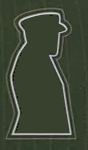
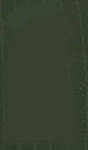
Bug fixes

Changed region(s): [[0.0455, 0.0533, 0.8636, 0.9333]]

diff --git a/client/src/components/GameContext/GameContext.tsx b/client/src/components/GameContext/GameContext.tsx
@@ -292,6 +292,24 @@ function withUnloadAfterCardRemoved(
   )
 }
 
+function handCardBeforeDiscard(state: GameState, playerId: number, cardId: number): Card | undefined {
+  const player = state.players.find(p => p.id === playerId)
+  if (!player) return undefined
+  return player.deck.slice(0, player.handCount).find(c => c.id === cardId)
+}
+
+/** RoI unload when a discard cost removes a card from hand (Holoprojectors, Ixian Probe, etc.). */
+function withUnloadAfterDiscardCost(
+  before: GameState,
+  after: GameState,
+  playerId: number,
+  cardIds: readonly number[]
+): GameState {
+  if (after === before || cardIds.length !== 1) return after
+  const card = handCardBeforeDiscard(before, playerId, cardIds[0])
+  return withUnloadAfterCardRemoved(after, playerId, card, 'discard')
+}
+
 /** Treachery (and similar): auto-deploy all troops from a mandatory recruit+deploy effect. */
 function resolveMandatoryTroopDeploy(state: GameState, playerId: number): GameState {
   if (!state.currTurn?.mandatoryDeployTroops) return state
@@ -1084,6 +1102,45 @@ function withRecruitedTroopsDeployLimit(state: GameState, troopsRecruited: numbe
     ...state,
     currTurn: applyRecruitedTroopsToTurnDeployLimit(state.currTurn, troopsRecruited),
   }
+}
+
+/** Spice/troops/etc. on paid optional effects that also queue an influence choice. */
+function applyNonInfluencePayCostRewards(
+  player: Player,
+  reward: Reward,
+  currTurn: GameTurn,
+  pushGain: (amount: number, type: RewardType) => void
+): { player: Player; currTurn: GameTurn } {
+  let nextPlayer = player
+  let nextTurn = currTurn
+  if (reward.spice) {
+    nextPlayer = { ...nextPlayer, spice: nextPlayer.spice + reward.spice }
+    pushGain(reward.spice, RewardType.SPICE)
+  }
+  if (reward.water) {
+    nextPlayer = { ...nextPlayer, water: nextPlayer.water + reward.water }
+    pushGain(reward.water, RewardType.WATER)
+  }
+  if (reward.solari) {
+    nextPlayer = { ...nextPlayer, solari: nextPlayer.solari + reward.solari }
+    pushGain(reward.solari, RewardType.SOLARI)
+  }
+  if (reward.troops) {
+    const recruited = recruitTroopsToGarrison(nextPlayer, reward.troops)
+    nextPlayer = recruited.player
+    pushGain(recruited.recruited, RewardType.TROOPS)
+    if (nextTurn.canDeployTroops && !isDeployTheseRecruitedTroops(reward)) {
+      nextTurn = {
+        ...nextTurn,
+        troopLimit: (nextTurn.troopLimit || 0) + recruited.recruited,
+      }
+    }
+  }
+  if (reward.intrigueCards) {
+    nextPlayer = { ...nextPlayer, intrigueCount: nextPlayer.intrigueCount + reward.intrigueCards }
+    pushGain(reward.intrigueCards, RewardType.INTRIGUE)
+  }
+  return { player: nextPlayer, currTurn: nextTurn }
 }
 
 function withEffectRetreatAllowance(state: GameState, amount: number): GameState {
@@ -6469,6 +6526,26 @@ function gameReducer(state: GameState, action: GameAction): GameState {
             if (cost.water) { player.water -= cost.water; pushCostGain(cost.water, RewardType.WATER); }
             if (cost.solari) { player.solari -= cost.solari; pushCostGain(cost.solari, RewardType.SOLARI); }
             if (cost.troops) { player.troops -= cost.troops; pushCostGain(cost.troops, RewardType.TROOPS); }
+            const pushRewardGain = (amount: number, type: RewardType) => {
+              if (!amount) return
+              newGains.push({
+                round: state.currentRound,
+                playerId,
+                sourceId: source.id,
+                name: source.name,
+                amount,
+                type,
+                source: source.type,
+              })
+            }
+            const appliedCompanion = applyNonInfluencePayCostRewards(
+              player,
+              reward,
+              tempCurrTurn,
+              pushRewardGain
+            )
+            player = appliedCompanion.player
+            tempCurrTurn = appliedCompanion.currTurn
             influenceChoices.push(
               createGainInfluenceChoice(reward.influence, choiceSource, undefined, collectLiveIds(state, influenceChoices.map(c => c.id)))
             )
@@ -7258,17 +7335,20 @@ function gameReducer(state: GameState, action: GameAction): GameState {
       
       const rewardForApply =
         reward.influence?.chooseOne ? { ...reward, influence: undefined } : reward
-      const newTurn = { ...state.currTurn }
-      newTurn.pendingChoices = (newTurn.pendingChoices || []).filter(c => c.id !== action.choiceId)
-      if (followUpGainChoice) {
-        newTurn.pendingChoices = [...(newTurn.pendingChoices || []), followUpGainChoice]
-      }
       const newState = applyChoiceReward(
         { ...state, players: state.players.map(p => p.id === playerId ? updatedPlayer : p), gains: updatedGains },
         rewardForApply,
         playerId,
         gainAttribution
       )
+      const baseTurn = newState.currTurn ?? state.currTurn
+      const newTurn = {
+        ...baseTurn,
+        pendingChoices: (baseTurn.pendingChoices || []).filter(c => c.id !== action.choiceId),
+      }
+      if (followUpGainChoice) {
+        newTurn.pendingChoices = [...(newTurn.pendingChoices || []), followUpGainChoice]
+      }
       const rewardFollowUps = (newState.currTurn?.pendingChoices ?? []).filter(
         c => c.id !== action.choiceId && !(newTurn.pendingChoices || []).some(tc => tc.id === c.id)
       )
@@ -7659,11 +7739,13 @@ function gameReducer(state: GameState, action: GameAction): GameState {
         }
         case CustomEffect.HOLOPROJECTORS: {
           const cardIds = (data?.cardIds as number[]) ?? []
-          return applyHoloprojectorsDiscard(state, playerId, cardIds)
+          const next = applyHoloprojectorsDiscard(state, playerId, cardIds)
+          return withUnloadAfterDiscardCost(state, next, playerId, cardIds)
         }
         case CustomEffect.INVASION_SHIPS: {
           const cardIds = (data?.cardIds as number[]) ?? []
-          return applyInvasionShipsDiscard(state, playerId, cardIds)
+          const next = applyInvasionShipsDiscard(state, playerId, cardIds)
+          return withUnloadAfterDiscardCost(state, next, playerId, cardIds)
         }
         case CustomEffect.SONIC_SNOOPERS: {
           return applySonicSnoopers(state, playerId, data?.count)
@@ -8589,8 +8671,10 @@ function gameReducer(state: GameState, action: GameAction): GameState {
       return handleAcquireTech(state, action)
     case 'ACTIVATE_TECH':
       return handleActivateTech(state, action)
-    case 'ACTIVATE_TECH_DISCARD':
-      return handleActivateTechDiscard(state, action)
+    case 'ACTIVATE_TECH_DISCARD': {
+      const next = handleActivateTechDiscard(state, action)
+      return withUnloadAfterDiscardCost(state, next, action.playerId, action.cardIds)
+    }
     case 'TECH_NEGOTIATOR':
       return handleTechNegotiator(state, action)
     case 'ADVANCE_RESEARCH':

diff --git a/client/src/components/GameContext/__tests__/boardSpaces.test.ts b/client/src/components/GameContext/__tests__/boardSpaces.test.ts
@@ -7,6 +7,7 @@ import { LEADERS, LEADER_NAMES } from '../../../data/leaders'
 import { applyGameAction } from '../GameContext'
 import {
   AgentIcon,
+  ChoiceType,
   ControlMarkerType,
   FactionType,
   GainSource,
@@ -17,6 +18,7 @@ import { getBaseTestState, stubDeckCard } from './_helpers'
 
 const ARRAKEEN_ID = BOARD_SPACES.find(s => s.name === 'Arrakeen')!.id
 const IMPERIAL_BASIN_ID = BOARD_SPACES.find(s => s.name === 'Imperial Basin')!.id
+const HARDY_WARRIORS_ID = BOARD_SPACES.find(s => s.name === 'Hardy Warriors')!.id
 
 function placeAgentOnSpace(spaceId: number, controllerId = 1) {
   const card = stubDeckCard(5000 + spaceId, { agentIcons: [AgentIcon.CITY] })
@@ -196,6 +198,64 @@ describe('Board spaces — control bonus', () => {
     s = applyGameAction(s, { type: 'DEPLOY_TROOP', playerId: 0 })
     expect(s.currTurn?.removableTroops).toBe(4)
     expect(s.combatTroops[0]).toBe(4)
+  })
+
+  it('Emperor 4th-influence milestone troops from RESOLVE_CHOICE count toward combat deploy limit', () => {
+    const card = stubDeckCard(5400, { agentIcons: [AgentIcon.FREMEN] })
+    let s = getBaseTestState(undefined, { players: 2 })
+    s = {
+      ...s,
+      factionInfluence: {
+        ...s.factionInfluence,
+        [FactionType.EMPEROR]: { 0: 3, 1: 0 },
+      },
+      players: s.players.map((p, i) =>
+        i === 0 ? { ...p, deck: [card], handCount: 1, water: 5 } : p
+      ),
+    }
+    s = applyGameAction(s, { type: 'PLAY_CARD', playerId: 0, cardId: card.id })
+    s = applyGameAction(s, { type: 'PLACE_AGENT', playerId: 0, spaceId: HARDY_WARRIORS_ID })
+    s = applyGameAction(s, { type: 'CLAIM_ALL_REWARDS', playerId: 0 })
+    expect(s.currTurn?.troopLimit).toBe(4)
+
+    const choiceId = 'test-emperor-milestone'
+    s = {
+      ...s,
+      currTurn: {
+        ...s.currTurn!,
+        pendingChoices: [
+          {
+            id: choiceId,
+            type: ChoiceType.FIXED_OPTIONS,
+            prompt: 'Gain Emperor influence',
+            options: [
+              {
+                reward: {
+                  influence: { amounts: [{ faction: FactionType.EMPEROR, amount: 1 }] },
+                },
+              },
+            ],
+            source: { type: GainSource.CARD, id: card.id, name: card.name },
+          },
+        ],
+      },
+    }
+    s = applyGameAction(s, {
+      type: 'RESOLVE_CHOICE',
+      playerId: 0,
+      choiceId,
+      optionIndex: 0,
+    })
+    expect(s.currTurn?.troopLimit).toBe(6)
+
+    s = applyGameAction(s, { type: 'DEPLOY_TROOP', playerId: 0 })
+    s = applyGameAction(s, { type: 'DEPLOY_TROOP', playerId: 0 })
+    s = applyGameAction(s, { type: 'DEPLOY_TROOP', playerId: 0 })
+    s = applyGameAction(s, { type: 'DEPLOY_TROOP', playerId: 0 })
+    s = applyGameAction(s, { type: 'DEPLOY_TROOP', playerId: 0 })
+    s = applyGameAction(s, { type: 'DEPLOY_TROOP', playerId: 0 })
+    expect(s.currTurn?.removableTroops).toBe(6)
+    expect(s.combatTroops[0]).toBe(6)
   })
 })
 

diff --git a/client/src/components/GameContext/__tests__/techActivation.test.ts b/client/src/components/GameContext/__tests__/techActivation.test.ts
@@ -12,6 +12,7 @@ import { tilesActivatableNow } from '../../../utils/techTiles'
 import { ChoiceType, CardPile, GamePhase, GainSource, NO_EXPANSIONS, RewardType, TurnType, type CardSelectChoice } from '../../../types/GameTypes'
 import { makePlayer, stubDeckCard } from './_helpers'
 import { RISE_OF_IX_INTRIGUE_CARDS } from '../../../data/intrigueCardsRiseOfIx'
+import { RISE_OF_IX_IMPERIUM_DECK } from '../../../data/cardsRiseOfIx'
 
 const RISE_OF_IX = { ...NO_EXPANSIONS, riseOfIx: true }
 
@@ -349,6 +350,37 @@ describe('tech tile activation', () => {
     expect(after.players[0].discardPile.map(c => c.id)).toEqual([hand1.id])
     expect(after.players[0].deck.map(c => c.id)).toEqual([drawTop.id])
     expect(after.players[0].tech[0]?.faceUp).toBe(false)
+  })
+
+  it('Holoprojectors discard triggers unload on Freighter Fleet', () => {
+    const freighterFleet = structuredClone(
+      RISE_OF_IX_IMPERIUM_DECK.find(c => c.name === 'Freighter Fleet')!
+    )
+    freighterFleet.id = 99050
+    const before = roiState({
+      players: [
+        makePlayer(0, {
+          tech: [{ id: TechTileId.HOLOPROJECTORS, faceUp: true }],
+          deck: [freighterFleet],
+          handCount: 1,
+          freighterStep: 0,
+        }),
+        makePlayer(1),
+      ],
+    })
+    const after = applyGameAction(before, {
+      type: 'ACTIVATE_TECH_DISCARD',
+      playerId: 0,
+      tileId: TechTileId.HOLOPROJECTORS,
+      cardIds: [freighterFleet.id],
+    })
+    const freighterChoice = after.currTurn?.pendingChoices?.find(
+      c => c.type === ChoiceType.FIXED_OPTIONS && c.prompt.startsWith('Freighter')
+    )
+    expect(freighterChoice).toBeDefined()
+    expect(freighterChoice?.source).toEqual(
+      expect.objectContaining({ name: 'Freighter Fleet (Unload)' })
+    )
   })
 
 

diff --git a/client/src/components/GameContext/__tests__/endTurnGating.test.ts b/client/src/components/GameContext/__tests__/endTurnGating.test.ts
@@ -148,6 +148,38 @@ describe('END_TURN gating — optional effects lapse silently', () => {
     expect(s.players[0].troops).toBe(8)
   })
 
+  it('Princess Yuna signet PAY_COST grants 1 troop and 1 spice before the influence choice', () => {
+    const yuna = RISE_OF_IX_LEADERS.find(l => l.name === LEADER_NAMES.PRINCESS_YUNA_MORITANI)!
+    const signet = structuredClone(STARTING_DECK.find(c => c.name === 'Signet Ring')!)
+    let s = getRoiTestState({
+      players: 2,
+      activeId: 0,
+      playerOverrides: {
+        leader: yuna,
+        deck: [signet],
+        handCount: 1,
+        solari: 20,
+        spice: 2,
+        troops: 4,
+      },
+    })
+    s = applyGameAction(s, { type: 'PLAY_CARD', playerId: 0, cardId: signet.id })
+    s = applyGameAction(s, { type: 'PLACE_AGENT', playerId: 0, spaceId: CARTHAG_ID })
+    const effect = s.currTurn?.optionalEffects?.[0]
+    expect(effect?.cost?.solari).toBe(7)
+
+    const solariBefore = s.players[0].solari
+    const spiceBefore = s.players[0].spice
+    const troopsBefore = s.players[0].troops
+    s = applyGameAction(s, { type: 'PAY_COST', playerId: 0, effectId: effect!.id })
+
+    expect(s.players[0].solari).toBe(solariBefore - 7)
+    expect(s.players[0].spice).toBe(spiceBefore + 1)
+    expect(s.players[0].troops).toBe(troopsBefore + 1)
+    expect(s.currTurn?.pendingChoices?.length).toBeGreaterThan(0)
+    expect(s.currTurn?.optionalEffects ?? []).toHaveLength(0)
+  })
+
   it('Princess Yuna signet ring is optional — END_TURN proceeds without paying 7 Solari', () => {
     const yuna = RISE_OF_IX_LEADERS.find(l => l.name === LEADER_NAMES.PRINCESS_YUNA_MORITANI)!
     const signet = structuredClone(STARTING_DECK.find(c => c.name === 'Signet Ring')!)

diff --git a/client/src/components/ImageBoard/ImageBoard.css b/client/src/components/ImageBoard/ImageBoard.css
@@ -756,7 +756,7 @@
 /* Board-texture patch covering the printed Mentat when a player holds it.
    Scales with board container width so mobile stays proportional. */
 .image-board__mentat-marker-img--taken {
-  width: clamp(12px, 2.8cqw, 28px);
+  width: clamp(16px, 3.2cqw, 28px);
   filter: none;
 }
 
